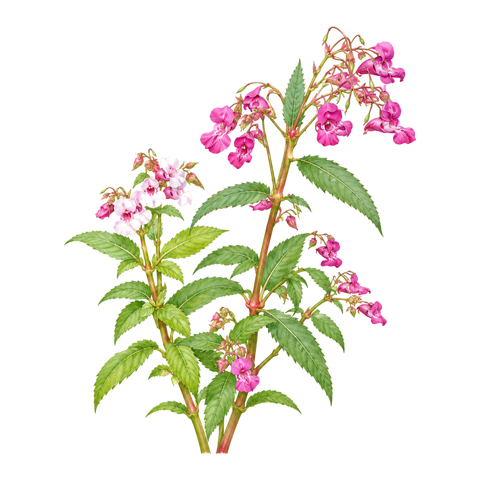
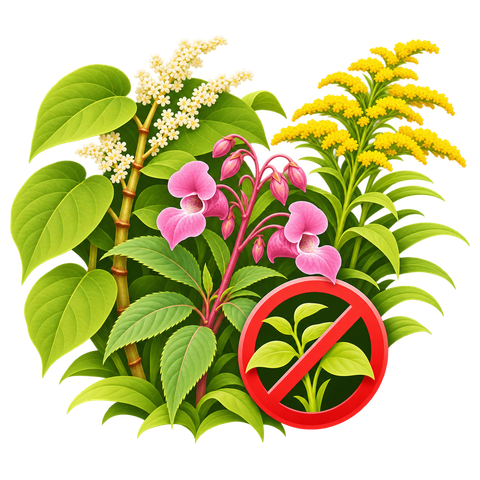
Hry: nova ikona pexesa Invazni druhy (z Nextcloudu)

diff --git a/hry.html b/hry.html
@@ -165,7 +165,7 @@
           <span class="variant-name">Ovocné stromy</span>
         </a>
         <a class="variant-card" href="https://otoc-a-najdi.lovable.app/invazivni-druhy" target="_blank" rel="noopener">
-          <span class="icon-frame"><img src="assets/hry/pexeso-invazni-druhy.png" width="480" height="480" loading="lazy" alt="Invazní druhy"></span>
+          <span class="icon-frame"><img src="assets/hry/pexeso-invazni-druhy.png?v=20261116b" width="480" height="480" loading="lazy" alt="Invazní druhy"></span>
           <span class="variant-name">Invazní druhy</span>
         </a>
       </div>
